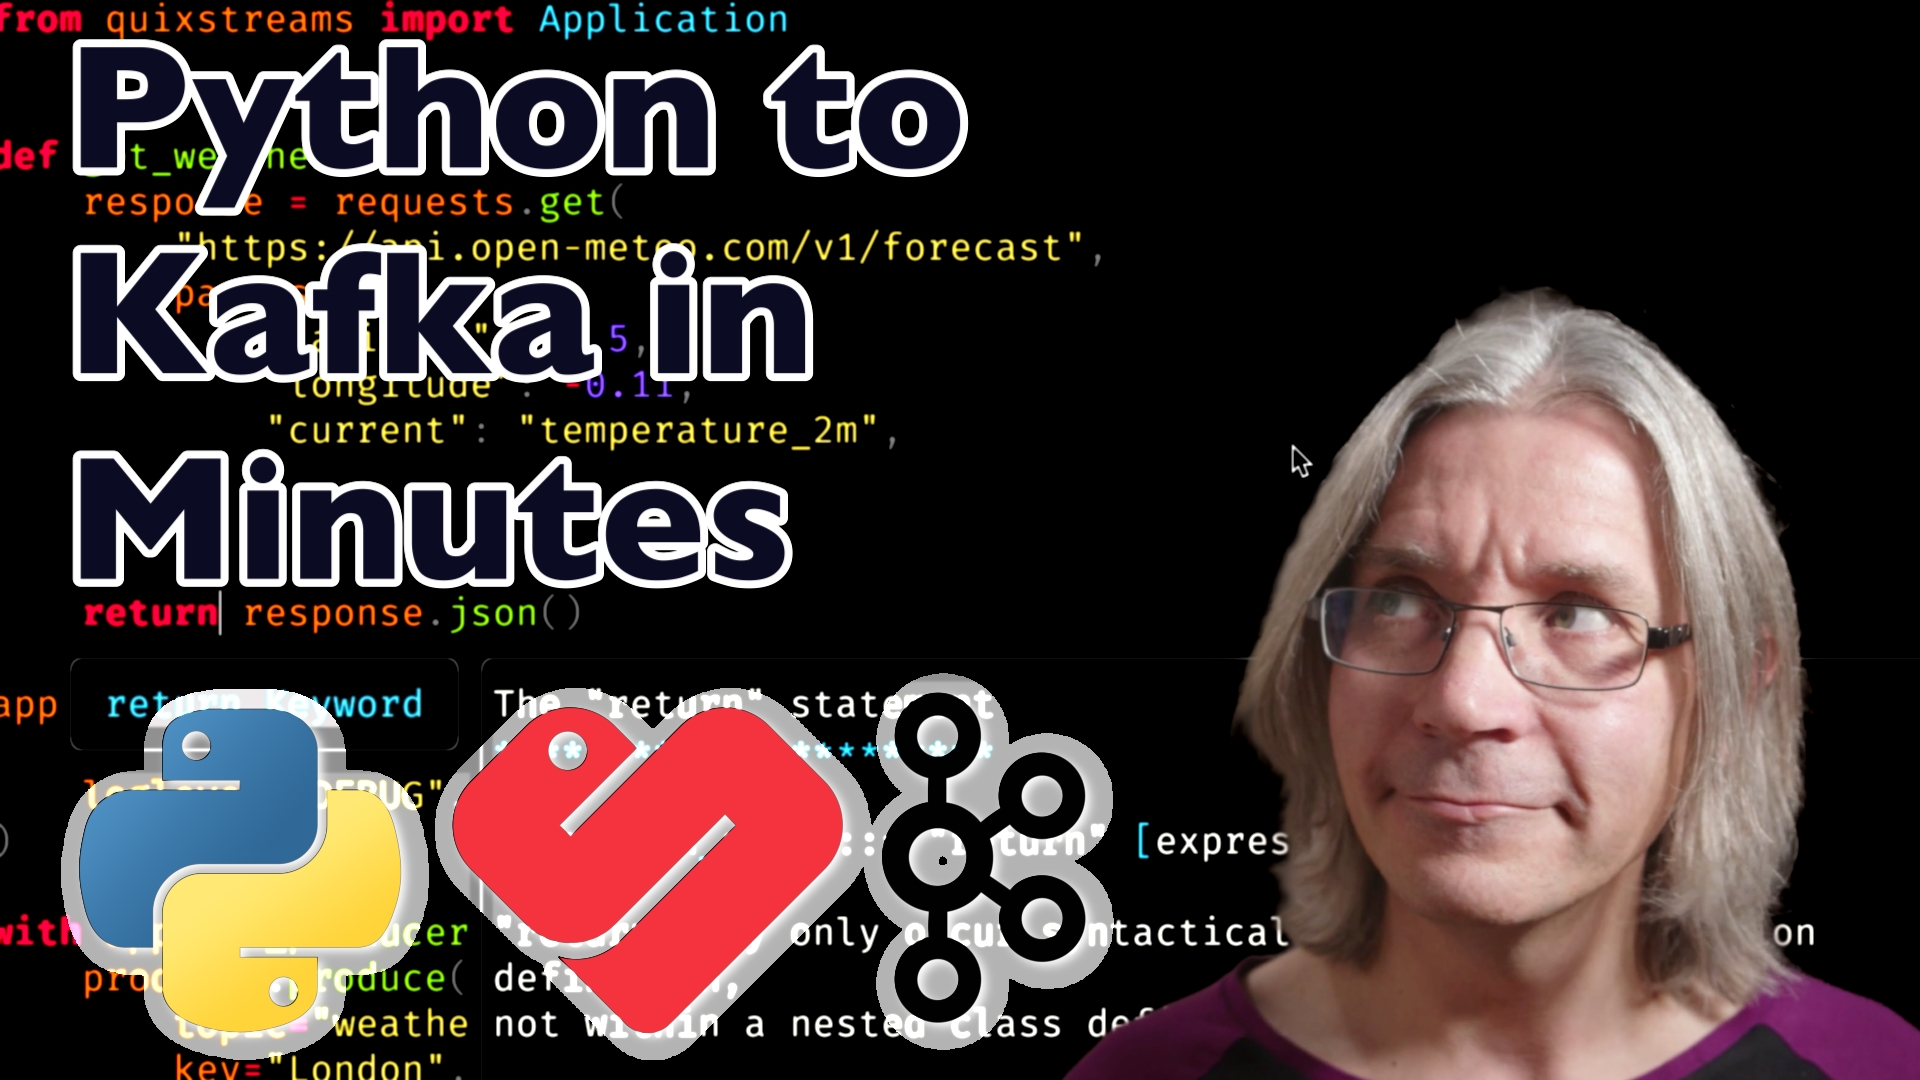
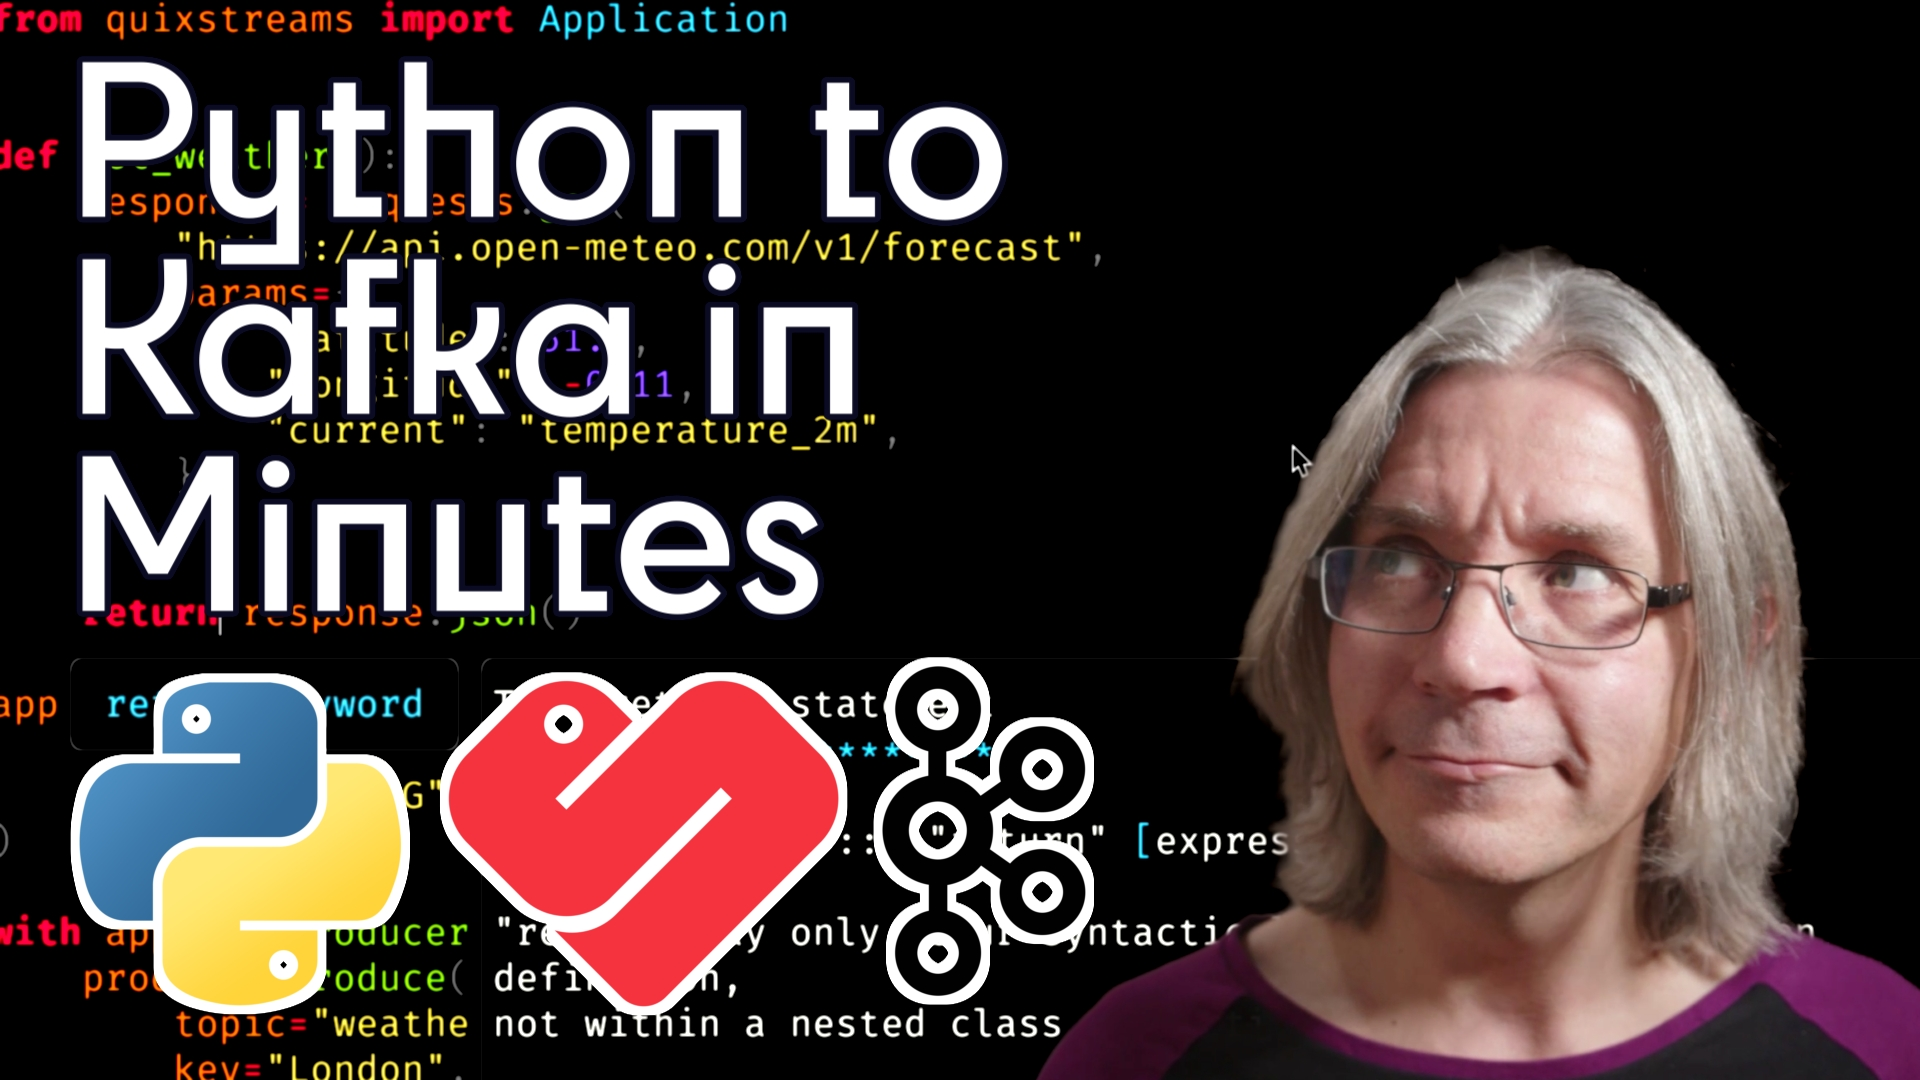
Updating the Youtube link and thumbnail.

diff --git a/README.md b/README.md
@@ -2,11 +2,11 @@
 
 Supporting code for this video tutorial:
 
-[![YouTube Thumbnail](producer_thumbnail.jpg?raw=true)](https://youtu.be/G019He6lnCg)
+[![YouTube Thumbnail](producer_thumbnail.jpg?raw=true)][youtube-producer]
 
 # A Simple Producer
 
-There's a complete [walkthrough video here](https://youtu.be/G019He6lnCg). To run the code in this repo:
+There's a complete [walkthrough video here][youtube-producer]. To run the code in this repo:
 
 ```sh
 # Set up an environment.
@@ -18,3 +18,5 @@ pip install -r requirements.txt
 # Run the producer.
 python3 main.py
 ```
+
+[youtube-producer]: https://youtu.be/D2NYvGlbK0M
